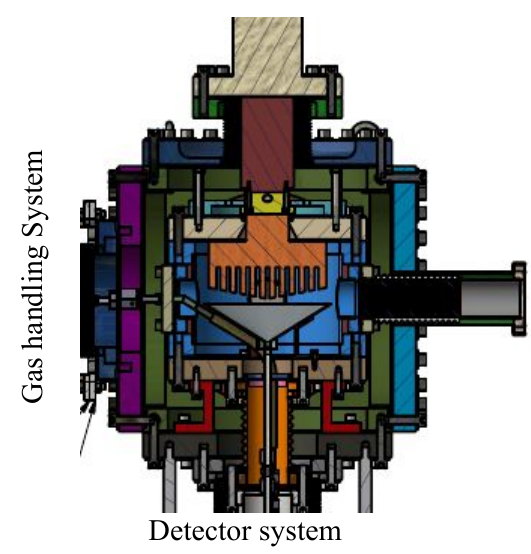
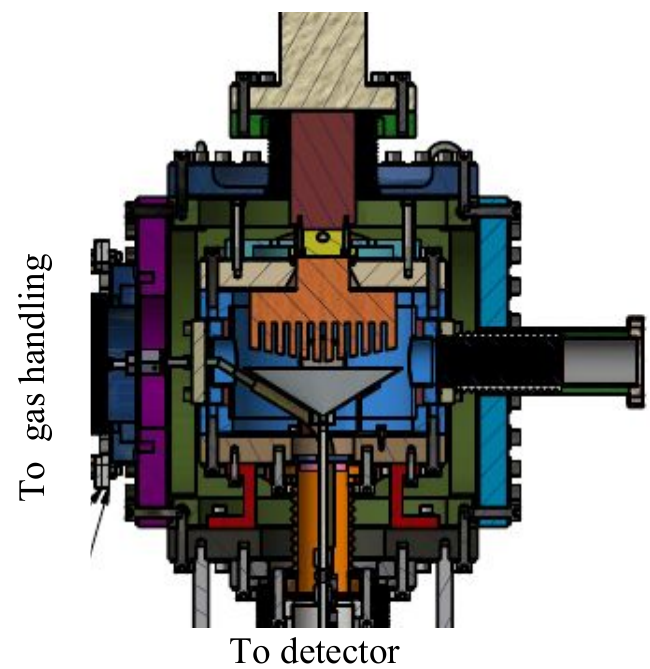
review sphere optical properties

Changed region(s): [[0.1205, 0.0, 0.9944, 1.0], [0.0301, 0.2762, 0.0904, 0.7671]]

diff --git a/TheSphere.tex b/TheSphere.tex
@@ -1,11 +1,10 @@
 \section{Optical properties of the sphere }
 \label{sec:opt}
 
-The central component of the experiment is the HPFS shell, which holds the LXe target, located in the center of the detector system. The shell is made of two Corning HPFS 8655 hemispheres attached by a UV transparent glue. The refractive index of HPFS 8655 is 1.575 at 185 nm (LXe R.I. 1.61); hence, there is minimal diffraction from the original direction of the photons when they 
-transit from the LXe target to the sphere. The refractive indexes at various wavelengths are shown in Fig.~\ref{fig:hpfsRIcalibration} (left panel).
+The central component of the experiment is the HPFS sphere, which holds the LXe target, located in the center of the detector system. The sphere is made of two Corning HPFS 8655 hemispheres attached by a UV transparent glue. The refractive index of this HPFS is 1.58 at 185 nm, matching to the LXe one, which is 1.61. Hence, there is minimal diffraction from the original direction of the photons as they transit from the LXe target to the sphere. The refractive indexes at various wavelengths are shown in Fig.~\ref{fig:hpfsRIcalibration} (left panel).
 
 
-The HPFS transparency to VUV photons is an extremely crucial parameter for optimizing the shell's dimension. Therefore, the transmittance of an HPFS sample was measured, using a VUV monochromator light source. 
+The HPFS transparency to VUV photons is an extremely crucial parameter for setting the sphere's dimensions (inner and outer radii). Therefore, the transmittance of an HPFS sample was measured, using a VUV monochromator light source. 
 The measured transmittances as a function of wavelength are shown in Fig.~\ref{fig:hpfsRIcalibration}~(right panel). The \sout{intrinsic} transmittance of the sample at 178~\,nm, is$\sim98.7$\,\%/cm.  
 
 \begin{figure}[h]
@@ -23,6 +22,6 @@ too thick to attenuate the scintillation light and the LXe target bubble within 
 (signal) as well as the standard emission (background), will be $^{137} \mathrm{Cs}$ 
 (662 keV) and $^{57} \mathrm{Co}$(122keV \& 136 keV) for ER and $^{241}$AmBe , 
 D-D neutron generator, or neutron produced in an accelerator for NR . The mean 
-free path of $^{57} \mathrm{Co}$ is a couple of mm, and for $^{137} \mathrm{Cs}$ is a couple of cm.
+free path of $^{57} \mathrm{Co}$ is a $~\1$\,cm, and for $^{137} \mathrm{Cs}$ is a $\sim4$\,cm.
 
-Using a GEANT4 based simulation~\cite{AGOSTINELLI2003250} studying the path of the scintillation photons the sphere dimensions are optimized. The outer radius (the thickness of the HPFS) is 3 cm, while the inner (the hollow space that holds the LXe) is 1 cm. 
+Using a GEANT4 based simulation~\cite{AGOSTINELLI2003250} studying the path of the scintillation photons the sphere dimensions are optimized. The outer radius  is 3 cm, and the inner (the hollow space that holds the LXe) is 1 cm. 
